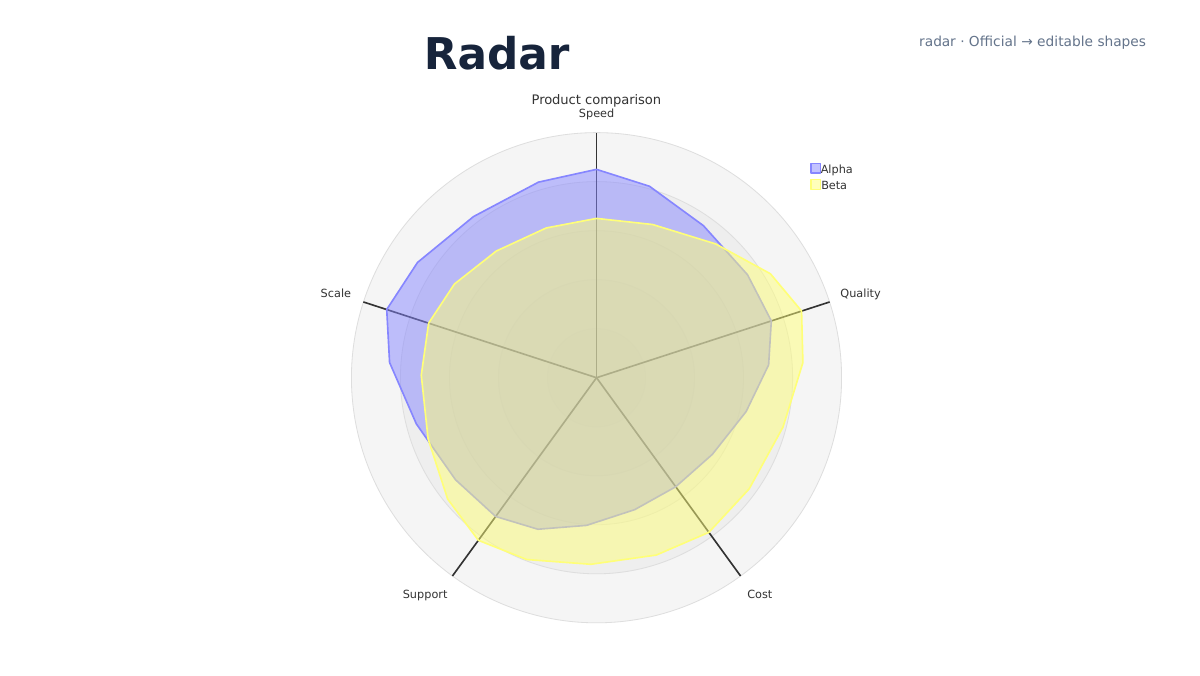
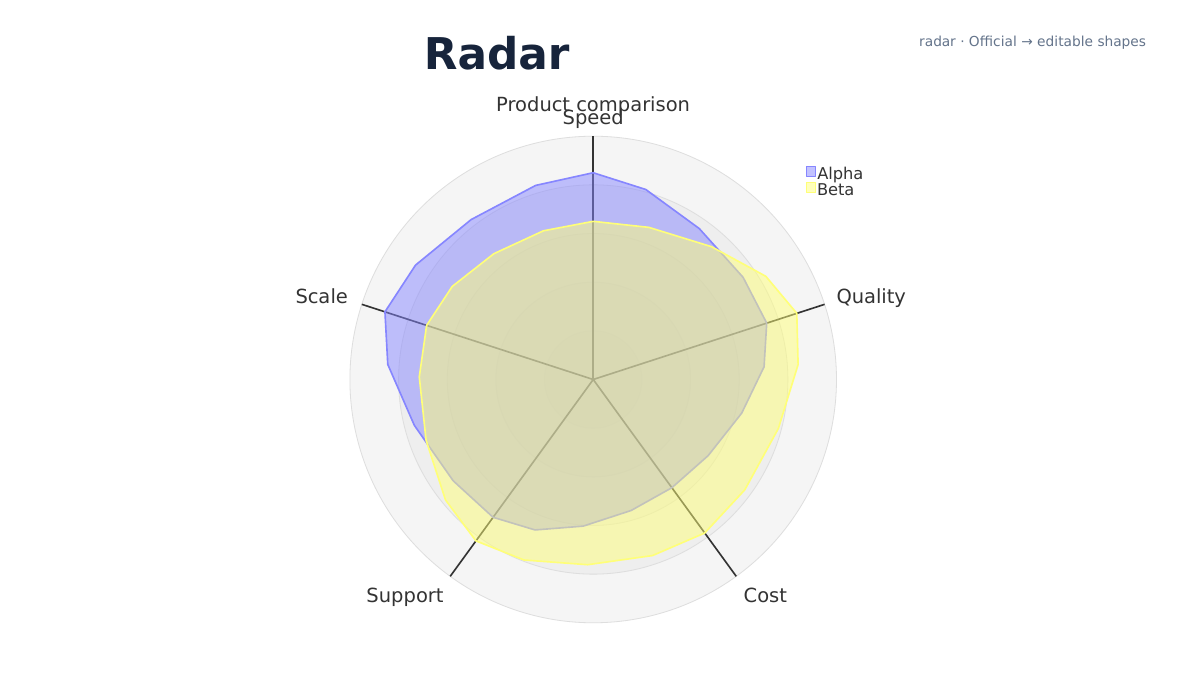
Improve radar typography readability

diff --git a/src/diagram_pptx/importers/mermaid_svg.py b/src/diagram_pptx/importers/mermaid_svg.py
@@ -137,8 +137,50 @@ def import_mermaid_svg(svg: str | bytes, *, kind: str) -> DrawingScene:
     _infer_connector_endpoints(scene)
     _snap_connector_ends(scene)
     _improve_sequence_self_messages(scene)
+    _improve_radar_typography(scene)
     scene.recompute_extents()
     return scene
+
+
+def _improve_radar_typography(scene: DrawingScene) -> None:
+    """Keep Mermaid radar labels readable after fitting the chart to a slide."""
+
+    if scene.kind != "radar":
+        return
+    target_sizes = {
+        "radarAxisLabel": 24.0,
+        "radarLegendText": 20.0,
+        "radarTitle": 24.0,
+    }
+    for item in scene.elements:
+        if not isinstance(item, SceneText):
+            continue
+        target_size = next(
+            (size for class_name, size in target_sizes.items() if class_name in item.classes),
+            None,
+        )
+        if target_size is None:
+            continue
+        current_size = item.style.font_size or 14.0
+        if current_size >= target_size:
+            continue
+        scale = target_size / current_size
+        old_box = item.box
+        width = old_box.width * scale
+        height = old_box.height * scale
+        if item.align == "left":
+            left = old_box.x
+        elif item.align == "right":
+            left = old_box.x + old_box.width - width
+        else:
+            left = old_box.center.x - width / 2
+        item.box = Box(
+            left,
+            old_box.center.y - height / 2,
+            width,
+            height,
+        )
+        item.style.font_size = target_size
 
 
 def _walk(

diff --git a/tests/test_official_backend.py b/tests/test_official_backend.py
@@ -145,6 +145,29 @@ def test_mermaid_svg_preserves_text_metrics_rotation_and_tspan_position() -> Non
     assert label.box.height == pytest.approx(19.2)
 
 
+def test_mermaid_svg_enlarges_radar_typography_for_slide_readability() -> None:
+    scene = import_mermaid_svg(
+        """\
+<svg xmlns="http://www.w3.org/2000/svg" viewBox="0 0 700 700">
+  <text class="radarAxisLabel" x="350" y="30"
+        text-anchor="middle" font-size="12">Speed</text>
+  <text class="radarLegendText" x="610" y="90"
+        font-size="12">Alpha</text>
+  <text class="radarTitle" x="350" y="15"
+        text-anchor="middle" font-size="16">Product comparison</text>
+</svg>
+""",
+        kind="radar",
+    )
+
+    labels = {item.text: item for item in scene.elements if isinstance(item, SceneText)}
+    assert labels["Speed"].style.font_size == 24
+    assert labels["Alpha"].style.font_size == 20
+    assert labels["Product comparison"].style.font_size == 24
+    assert labels["Speed"].box.width == pytest.approx(67.68)
+    assert labels["Product comparison"].box.center.x == pytest.approx(labels["Speed"].box.center.x)
+
+
 def test_mermaid_svg_composes_nested_transforms_and_nested_svg_viewbox() -> None:
     scene = import_mermaid_svg(
         """\

diff --git a/CHANGELOG.md b/CHANGELOG.md
@@ -41,6 +41,8 @@ Versioning.
 - Official SVG import now preserves nested viewport transforms, DOM paint
   order, rotated primitives and text, text anchors/baselines, multiline
   tspans, inherited presentation attributes, and selector-aware CSS styling.
+- Official Radar output now enlarges axis labels, legends, and chart titles
+  for presentation-scale readability.
 
 ## [0.1.0a1] - 2026-07-26
 
